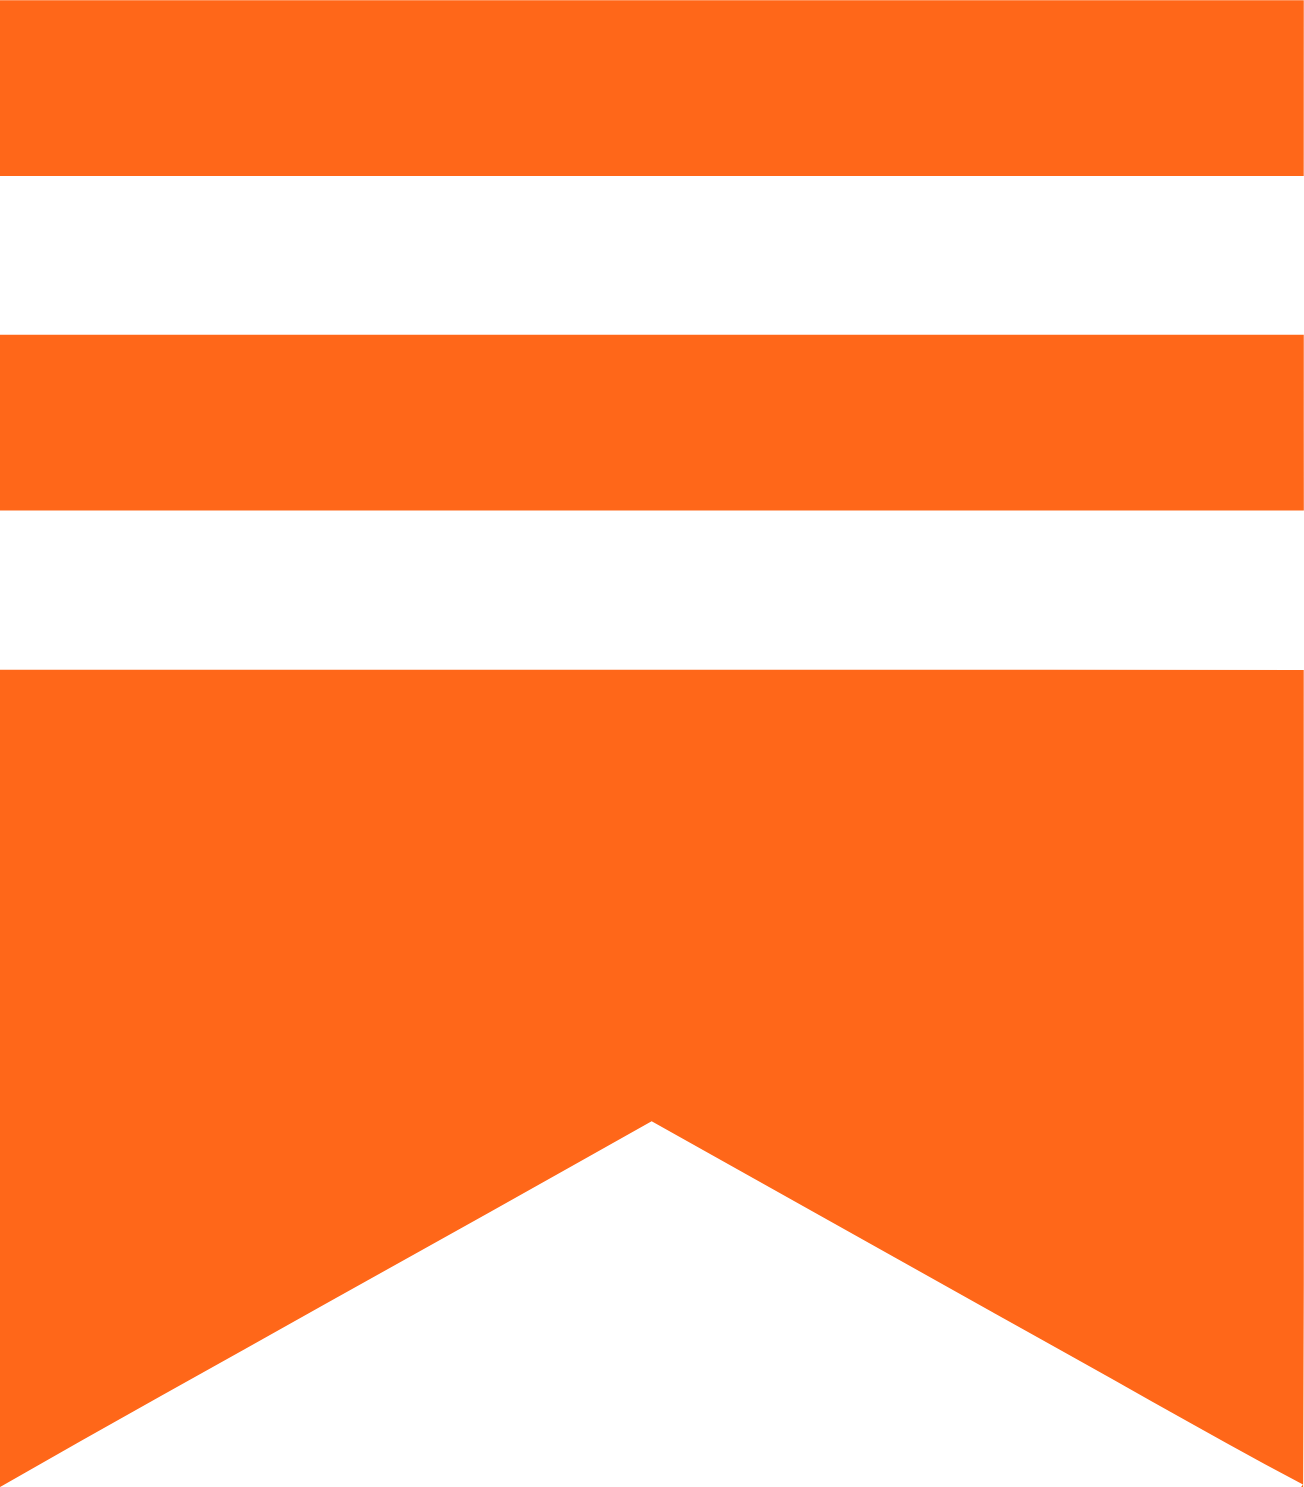
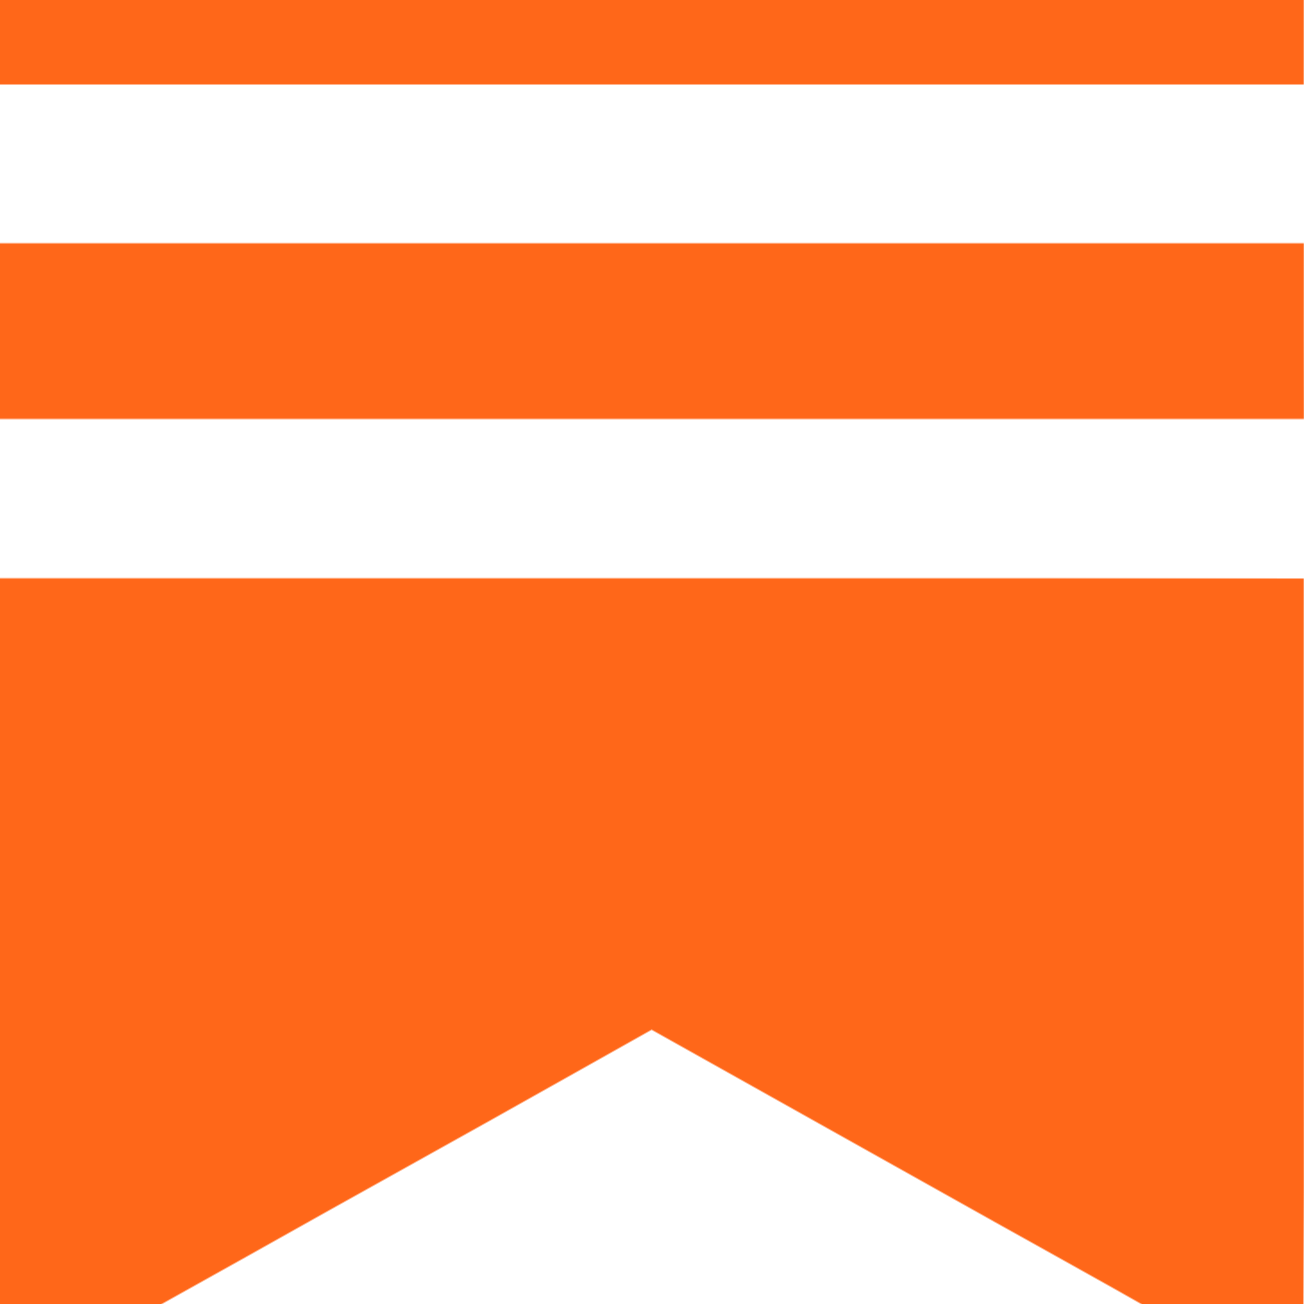
Fix Lighthouse audit issues: accessibility, performance, console errors
- Remove maximum-scale=1 from viewport meta (accessibility)
- Fix color contrast in footer for dark background (WCAG 2.1)
- Crop substack.png to square aspect ratio
- Add width/height to images to prevent CLS
- Initialize Givebutter accountId to fix console error

🤖 Generated with [Claude Code](https://claude.com/claude-code)

diff --git a/components/Footer.tsx b/components/Footer.tsx
@@ -60,14 +60,14 @@ const Footer: React.FC = () => {
                   height="32"
                   className="w-8 h-8 object-contain"
                 />
-                <span className="font-bold tracking-tight text-lg"><span style={{ color: '#A22131' }}>Gifted</span> <span style={{ color: '#0D729C' }}>Dreamers</span></span>
+                <span className="font-bold tracking-tight text-lg"><span style={{ color: '#E8505B' }}>Gifted</span> <span style={{ color: '#38BDF8' }}>Dreamers</span></span>
               </div>
               <div className="flex flex-wrap gap-x-6 gap-y-2 text-sm mb-4">
                 <Link to="/about" className="hover:text-white transition-colors">About</Link>
                 <Link to="/contact" className="hover:text-white transition-colors">Contact</Link>
                 <Link to="/faq" className="hover:text-white transition-colors">FAQ</Link>
               </div>
-              <p className="text-xs text-slate-500 leading-relaxed">
+              <p className="text-xs text-slate-400 leading-relaxed">
                 Gifted Dreamers, Inc. is a 501(c)(3) nonprofit organization.<br/>
                 EIN: 39-3863796 | All donations are tax-deductible.<br/>
                 © 2025 Gifted Dreamers, Inc. All rights reserved.
@@ -77,28 +77,28 @@ const Footer: React.FC = () => {
             {/* Social Icons - min 44x44px touch targets for accessibility */}
             <div className="flex md:justify-end gap-2">
                <a href="https://gifteddreamers.substack.com" target="_blank" rel="noopener noreferrer" aria-label="Follow us on Substack" className="flex items-center justify-center w-11 h-11 hover:opacity-80 transition-opacity transform hover:scale-110">
-                 <img src={`${import.meta.env.BASE_URL}images/substack.png`} alt="Substack" className="h-6 w-6" />
+                 <img src={`${import.meta.env.BASE_URL}images/substack.png`} alt="Substack" width="24" height="24" className="h-6 w-6 object-contain" />
                </a>
                <a href="https://linkedin.com/company/gifteddreamers" target="_blank" rel="noopener noreferrer" aria-label="Follow us on LinkedIn" className="flex items-center justify-center w-11 h-11 hover:opacity-80 transition-opacity transform hover:scale-110">
-                 <img src={`${import.meta.env.BASE_URL}images/linkedin.svg`} alt="LinkedIn" className="h-6 w-6" />
+                 <img src={`${import.meta.env.BASE_URL}images/linkedin.svg`} alt="LinkedIn" width="24" height="24" className="h-6 w-6" />
                </a>
                <a href="https://facebook.com/gifteddreamers" target="_blank" rel="noopener noreferrer" aria-label="Follow us on Facebook" className="flex items-center justify-center w-11 h-11 hover:opacity-80 transition-opacity transform hover:scale-110">
-                 <img src={`${import.meta.env.BASE_URL}images/facebook.svg`} alt="Facebook" className="h-6 w-6" />
+                 <img src={`${import.meta.env.BASE_URL}images/facebook.svg`} alt="Facebook" width="24" height="24" className="h-6 w-6" />
                </a>
                <a href="https://instagram.com/gifted.dreamers" target="_blank" rel="noopener noreferrer" aria-label="Follow us on Instagram" className="flex items-center justify-center w-11 h-11 hover:opacity-80 transition-opacity transform hover:scale-110">
-                 <img src={`${import.meta.env.BASE_URL}images/instagram.svg`} alt="Instagram" className="h-6 w-6" />
+                 <img src={`${import.meta.env.BASE_URL}images/instagram.svg`} alt="Instagram" width="24" height="24" className="h-6 w-6" />
                </a>
                <a href="https://youtube.com/@gifteddreamers" target="_blank" rel="noopener noreferrer" aria-label="Follow us on YouTube" className="flex items-center justify-center w-11 h-11 hover:opacity-80 transition-opacity transform hover:scale-110">
-                 <img src={`${import.meta.env.BASE_URL}images/youtube.svg`} alt="YouTube" className="h-6 w-6" />
+                 <img src={`${import.meta.env.BASE_URL}images/youtube.svg`} alt="YouTube" width="24" height="24" className="h-6 w-6" />
                </a>
                <a href="http://tiktok.com/@gifteddreamers" target="_blank" rel="noopener noreferrer" aria-label="Follow us on TikTok" className="flex items-center justify-center w-11 h-11 hover:opacity-80 transition-opacity transform hover:scale-110">
-                 <img src={`${import.meta.env.BASE_URL}images/tiktok.svg`} alt="TikTok" className="h-6 w-6" />
+                 <img src={`${import.meta.env.BASE_URL}images/tiktok.svg`} alt="TikTok" width="24" height="24" className="h-6 w-6" />
                </a>
                <a href="https://www.x.com/gifteddreamers" target="_blank" rel="noopener noreferrer" aria-label="Follow us on X (Twitter)" className="flex items-center justify-center w-11 h-11 hover:opacity-80 transition-opacity transform hover:scale-110">
-                 <img src={`${import.meta.env.BASE_URL}images/X.svg`} alt="X (Twitter)" className="h-6 w-6" />
+                 <img src={`${import.meta.env.BASE_URL}images/X.svg`} alt="X (Twitter)" width="24" height="24" className="h-6 w-6" />
                </a>
                <a href="https://pinterest.com/@gifteddreamers" target="_blank" rel="noopener noreferrer" aria-label="Follow us on Pinterest" className="flex items-center justify-center w-11 h-11 hover:opacity-80 transition-opacity transform hover:scale-110">
-                 <img src={`${import.meta.env.BASE_URL}images/pinterest.svg`} alt="Pinterest" className="h-6 w-6" />
+                 <img src={`${import.meta.env.BASE_URL}images/pinterest.svg`} alt="Pinterest" width="24" height="24" className="h-6 w-6" />
                </a>
             </div>
           </div>

diff --git a/index.html b/index.html
@@ -2,7 +2,7 @@
 <html lang="en">
   <head>
     <meta charset="UTF-8" />
-    <meta name="viewport" content="width=device-width, initial-scale=1.0, maximum-scale=1" />
+    <meta name="viewport" content="width=device-width, initial-scale=1.0" />
     <title>Gifted Dreamers | $380K in Free Nonprofit Tech Tools</title>
 
     <!-- SEO Meta Tags -->
@@ -96,11 +96,12 @@
     </script>
 
     <!-- Givebutter Widget Script -->
-    <script src="https://js.givebutter.com/elements/latest.js"></script>
-    <script
-      async
-      src="https://widgets.givebutter.com/latest.umd.cjs?acct=PWF9tXFflbTG12rU&p=other"
-    ></script>
+    <script>
+      window.Givebutter = window.Givebutter || function() { (Givebutter.q = Givebutter.q || []).push(arguments); };
+      Givebutter('setOptions', { accountId: 'PWF9tXFflbTG12rU' });
+    </script>
+    <script async src="https://js.givebutter.com/elements/latest.js"></script>
+    <script async src="https://widgets.givebutter.com/latest.umd.cjs?acct=PWF9tXFflbTG12rU&p=other"></script>
 
     <!-- Double the Donation Widget Script (Matching Gifts) -->
     <script>

diff --git a/components/LogoCloud.tsx b/components/LogoCloud.tsx
@@ -93,6 +93,8 @@ const LogoCloud: React.FC<LogoCloudProps> = ({
               <img
                 src={logo.url}
                 alt={logo.name}
+                width="32"
+                height="32"
                 className="h-8 md:h-10 object-contain w-auto"
                 loading="lazy"
               />
